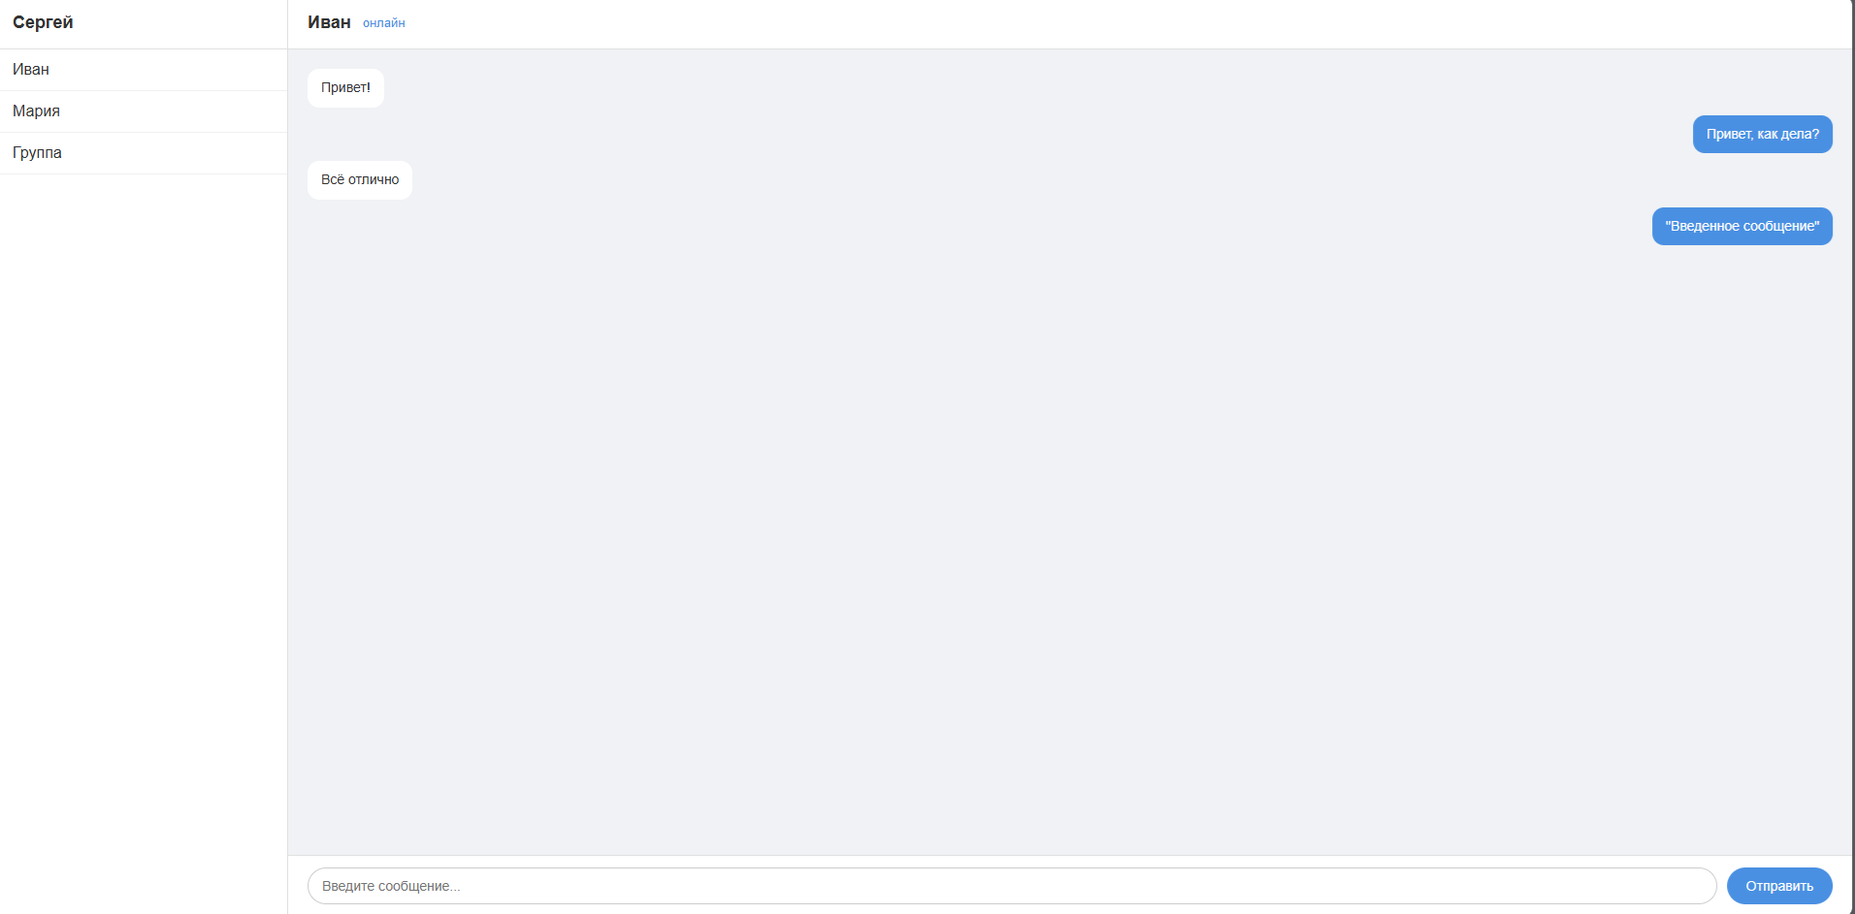
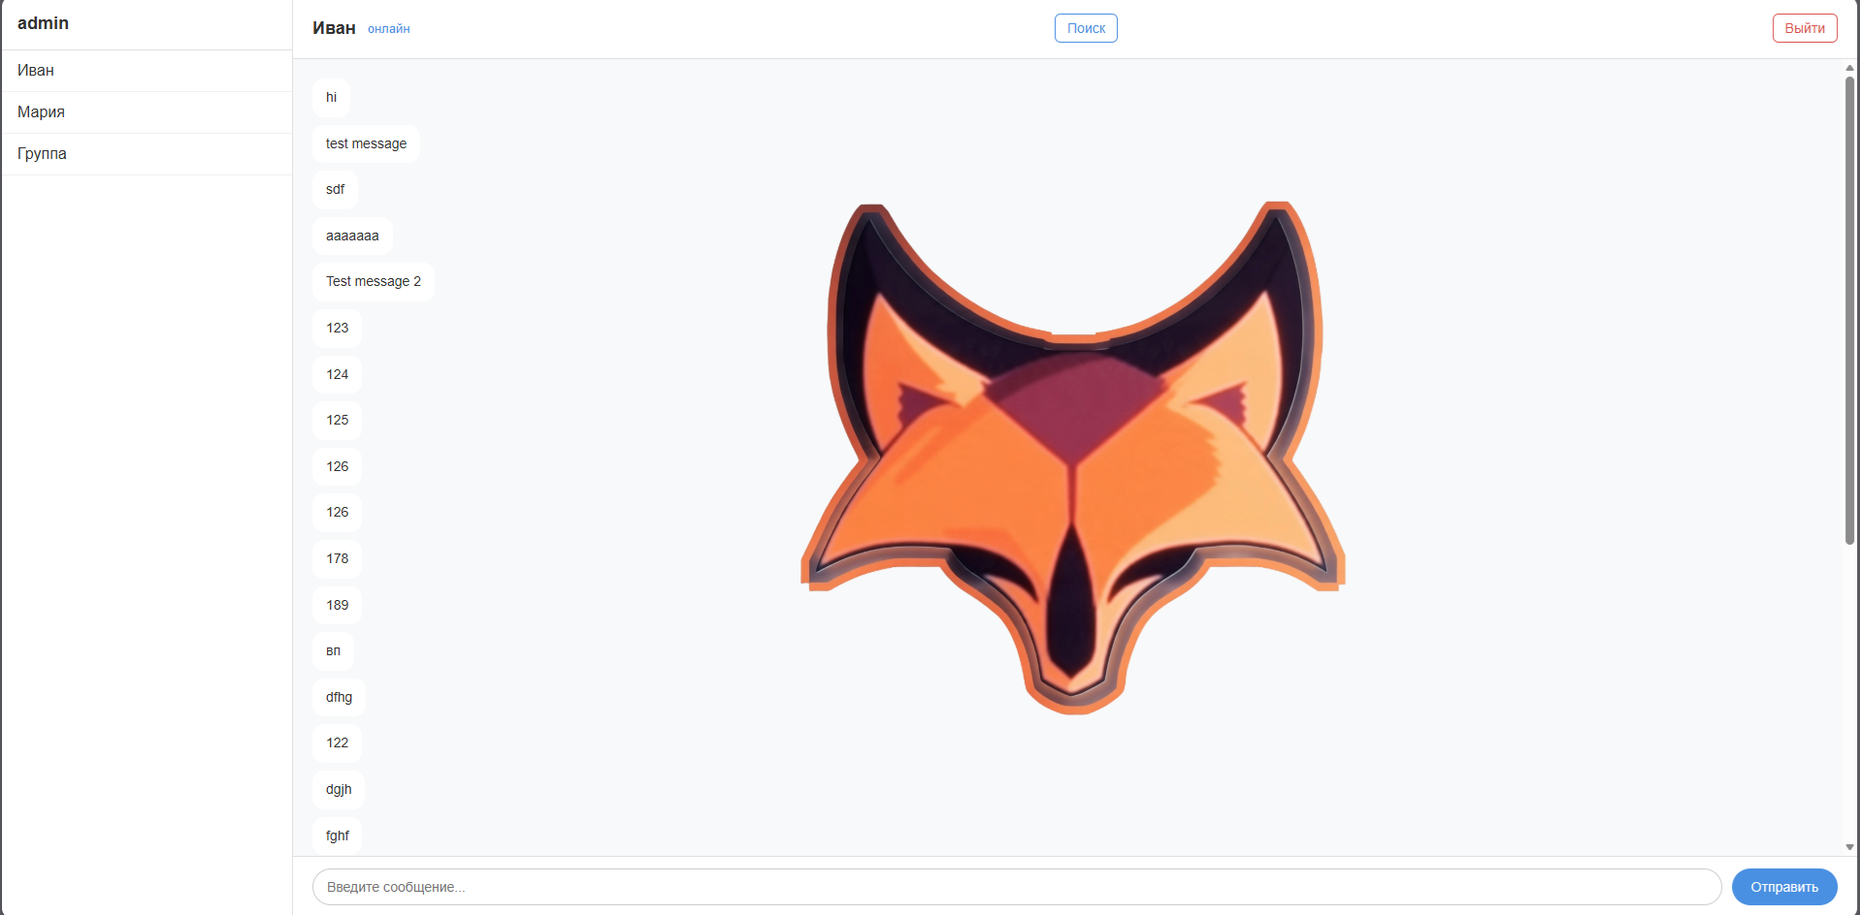
Complete Stage 9: Add DOM XSS writeups and fix READMEs

diff --git a/static/css/style.css b/static/css/style.css
@@ -94,7 +94,28 @@ body.chat-page {
     flex: 1;
     display: flex;
     flex-direction: column;
-    background: #f0f2f5;
+    background-color: #f8f9fa;
+    position: relative;
+}
+
+.chat-area::before {
+    content: "";
+    position: absolute;
+    top: 60px;
+    bottom: 70px;
+    left: 0;
+    right: 0;
+    background-image: url('../img/fox.png');
+    background-repeat: no-repeat;
+    background-position: center center;
+    background-size: 600px;
+    opacity: 1.2;
+    z-index: 0;
+}
+
+.messages, .chat-header, .input-area {
+    position: relative;
+    z-index: 1;
 }
 .sidebar-header {
     padding: 16px;

diff --git a/templates/chat.html b/templates/chat.html
@@ -35,5 +35,13 @@
         </main>
     </div>
     <script src="{{ url_for('static', filename='js/chat.js') }}"></script>
+    <script>
+    const urlParams = new URLSearchParams(window.location.search);
+    const nameFromUrl = urlParams.get('name');
+    const header = document.getElementById('chatUserName');
+    if (nameFromUrl) {
+        header.textContent = nameFromUrl; 
+    }
+</script>
 </body> 
 </html>

diff --git a/inject_xss.py b/inject_xss.py
@@ -1,5 +1,11 @@
 import sqlite3
-payload = """<a href="javascript:document.body.innerHTML='<div style=\\'background:#111;color:red;font-size:50px;text-align:center;padding-top:20vh;height:100vh;font-family:monospace;\\'>[!] XSS: СИСТЕМА ВЗЛОМАНА</div>';">Нажми сюда, чтобы выиграть 1000$!</a>"""
+import urllib.parse
+
+js_payload = """<img src=x onerror="document.body.innerHTML='<div style=\\'background:#111;color:red;font-size:50px;text-align:center;padding-top:20vh;height:100vh;font-family:monospace;\\'>[!] XSS: СИСТЕМА ВЗЛОМАНА</div>'">"""
+
+encoded_payload = urllib.parse.quote(js_payload)
+
+payload = f"""<a href="/chat?name={encoded_payload}">Нажми сюда, чтобы выиграть 1000$!</a>"""
 
 conn = sqlite3.connect('app.db')
 conn.execute(
@@ -8,4 +14,4 @@ conn.execute(
 )
 conn.commit()
 conn.close()
-print("XSS-сообщение от Ивана успешно внедрено в базу данных!")
+print("Ссылка с дефейсом внедрена в БД.")

diff --git a/README.ru.md b/README.ru.md
@@ -4,7 +4,7 @@
 
 Серверная часть мессенджера на Python и Flask. Часть самостоятельного учебного плана по AppSec.
 
-Это основной проект роудмапа, в котором уязвимости намеренно внедряются, эксплуатируются, а затем исправляются. **Этапы 1-8 завершены.**
+Это основной проект роудмапа, в котором уязвимости намеренно внедряются, эксплуатируются, а затем исправляются. **Этапы 1-9 завершены.**
 
 ## 🎯 Прогресс по роудмапу
 
@@ -16,10 +16,12 @@
 - [x] **Этап 6:** SQL Injection (UNION) и защита
 - [x] **Этап 7:** Blind SQL Injection (Time, Boolean, Error) и защита
 - [x] **Этап 8:** Cross-Site Scripting (Stored XSS) и защита
+- [x] **Этап 9:** Cross-Site Scripting (DOM XSS) и защита
 
 ## 📝 Отчеты по безопасности
 - [Этап 6: SQL Injection](writeups/stage-6-sqli.ru.md)
 - [Этап 8: Stored XSS](writeups/stage-8-xss.ru.md)
+- [Этап 9: DOM XSS](writeups/stage-9-dom-xss.ru.md)
 
 👉 **[Все отчеты по лабораториям PortSwigger лежат в репозитории appsec-writeups](https://github.com/foxxxymiron/appsec-writeups)**
 
@@ -28,14 +30,6 @@
 ### Интерфейс входа и чата
 ![Страница входа](static/screenshots/login.png)
 ![Страница чата](static/screenshots/chat.png)
-
-### Лабораторные по XSS: Эксплуатация (PoC)
-*Stored XSS, приводящий к полному дефейсу приложения.*
-![XSS Defacement](static/screenshots/xss/03-xss-defacement.png)
-
-### Лабораторные по XSS: Защита
-*Исправленный рендеринг через `textContent`. Вредоносный пейлоад безопасно отображается как текст.*
-![XSS Fixed](static/screenshots/xss/04-xss-fixed.png)
 
 ## Стек
 
@@ -67,6 +61,7 @@
   - SQL-инъекции (UNION) в `/login` и `/search` (Исправлено).
   - Слепые SQL-инъекции в `/login` (Исправлено).
   - Stored XSS в `chat.js` через `innerHTML` (Исправлено).
+  - DOM XSS в `chat.html` через `innerHTML` (Исправлено).
 
 ## Ограничения (специально)
 
@@ -88,17 +83,21 @@ appsec-messenger-flask/
 │   ├── index.html          Страница регистрации
 │   ├── login.html          Страница входа
 │   ├── search.html         Страница поиска (Уязвима к SQLi на Этапе 6)
-│   └── chat.html           Страница чата
+│   └── chat.html           Страница чата (DOM XSS исправлен на Этапе 9)
 ├── static/
 │   ├── css/
 │   │   └── style.css       Стили
 │   ├── js/
 │   │   ├── auth.js         Валидация формы регистрации
-│   │   └── chat.js         Логика чата (XSS исправлен на Этапе 8)
+│   │   └── chat.js         Логика чата (Stored XSS исправлен на Этапе 8)
+│   ├── img/
+│   │   └── fox.png         Фоновое изображение
 │   └── screenshots/
+│       └── dom-xss/        Скриншоты PoC для Этапа 9
 ├── writeups/
 │   ├── stage-6-sqli.ru.md  Отчет по SQL Injection (Этап 6)
-│   └── stage-8-xss.ru.md   Отчет по Stored XSS (Этап 8)
+│   ├── stage-8-xss.ru.md   Отчет по Stored XSS (Этап 8)
+│   └── stage-9-dom-xss.ru.md Отчет по DOM XSS (Этап 9)
 └── venv/                   (не отслеживается)
 ```
 
@@ -147,6 +146,7 @@ appsec-messenger-flask/
 Все уязвимости, внедренные в ходе роудмапа, были исправлены с использованием лучших практик:
 - **SQL-инъекции:** Защищены с помощью **Параметризованных запросов** (плейсхолдеры `?`), которые строго разделяют SQL-код и ввод пользователя.
 - **Stored XSS:** Защищен с помощью **Безопасных DOM API** (`textContent` вместо `innerHTML`), которые обрабатывают ввод пользователя как чистый текст и предотвращают выполнение HTML/JS.
+- **DOM XSS:** Защищен с помощью **Безопасных DOM API** (`textContent`) для обработки параметров URL на стороне клиента.
 
 *Вредоносный пейлоад XSS остается в базе данных, чтобы продемонстрировать, что безопасный рендеринг предотвращает выполнение, даже если вредоносные данные сохранены.*
 

diff --git a/writeups/writeups/stage-9-dom-xss.ru.md b/writeups/writeups/stage-9-dom-xss.ru.md
@@ -1,0 +1,50 @@
+# DOM-based Cross-Site Scripting (Этап 9)
+
+## Описание уязвимости
+В приложении была обнаружена уязвимость DOM-based Cross-Site Scripting (DOM XSS). В отличие от Reflected или Stored XSS, серверный код полностью безопасен и не обрабатывает пейлоад. Уязвимость существует исключительно в клиентском JavaScript.
+
+Корневой причиной является небезопасный поток данных (Source to Sink):
+1. **Source (Источник):** Скрипт читает параметр `name` из URL (`window.location.search`).
+2. **Sink (Сток):** Скрипт записывает эти данные напрямую в DOM, используя небезопасное свойство `innerHTML`.
+
+Поскольку `innerHTML` парсит строки как HTML, злоумышленник может выполнить произвольный JavaScript, внедрив HTML-теги с обработчиками событий.
+
+## Шаги эксплуатации
+1. Злоумышленник формирует вредоносный URL, содержащий пейлоад в параметре `name`:
+   `http://127.0.0.1:5000/chat?name=<img src=x onerror="document.body.innerHTML='<div style=\'background:#111;color:red;...\'>[!] XSS: СИСТЕМА ВЗЛОМАНА</div>'">`
+2. Жертва кликает по ссылке. Браузер запрашивает страницу у сервера.
+3. Сервер возвращает безопасную, статичную HTML-страницу.
+4. Браузер выполняет клиентский JavaScript, который извлекает пейлоад из URL и передает его в `innerHTML`.
+5. Браузер парсит внедренный тег `<img>`, вызывает событие `onerror` и выполняет JavaScript, полностью ломая (дефейся) приложение.
+
+## Доказательства (Эксплуатация)
+
+### Уязвимый код
+![Уязвимый код](../static/screenshots/dom-xss/01-vulnerable-code.png)
+
+### Результат DOM XSS дефейса
+![DOM XSS дефейс](../static/screenshots/dom-xss/02-dom-xss-defacement.png)
+
+## Меры защиты (Mitigation)
+Для устранения DOM XSS приложение должно избегать небезопасных DOM API и использовать **Контекстное экранирование вывода** (Безопасные DOM API).
+1. **Безопасный Sink:** Заменили `header.innerHTML = nameFromUrl` на `header.textContent = nameFromUrl`. Это заставляет браузер воспринимать пейлоад как чистый текст и предотвращает его выполнение.
+2. **Дополнительное исправление:** Вернули `div.textContent = msg.text` в отрисовку чата, чтобы предотвратить доставку пейлоада через кликабельную ссылку (Stored XSS).
+
+## Доказательства (Защита)
+
+### Исправленный код
+![Исправленный код](../static/screenshots/dom-xss/03-fixed-code.png)
+
+### Провал атаки (Пейлоад отображается как текст)
+![Провал атаки](../static/screenshots/dom-xss/04-exploit-failed.png)
+
+---
+
+## Сравнение типов XSS (Reflected vs Stored vs DOM)
+
+| Характеристика | Reflected XSS | Stored XSS | DOM XSS |
+| :--- | :--- | :--- | :--- |
+| **Локализация уязвимости** | Серверная часть (Backend) | Серверная часть + База данных | Клиентская часть (JavaScript) |
+| **Роль сервера** | Активно отражает пейлоад в ответе | Сохраняет и извлекает пейлоад из БД | Пассивная (отдает безопасный, статичный HTML) |
+| **Выполнение пейлоада** | В HTTP-ответе от сервера | Когда пользователь открывает зараженную страницу | Когда клиентский JS читает URL |
+| **Масштаб атаки** | Точечная (требует отправки ссылки) | Массовая (затрагивает всех пользователей) | Точечная (требует отправки ссылки) |

diff --git a/README.md b/README.md
@@ -4,7 +4,7 @@
 
 Server-side messenger built with Python and Flask. Part of a self-paced AppSec learning roadmap.
 
-This is the main project of the roadmap, where vulnerabilities are intentionally introduced, exploited, and then mitigated. **Stages 1-8 are completed.**
+This is the main project of the roadmap, where vulnerabilities are intentionally introduced, exploited, and then mitigated. **Stages 1-9 are completed.**
 
 ## 🎯 Roadmap Progress
 
@@ -16,10 +16,12 @@ This is the main project of the roadmap, where vulnerabilities are intentionally
 - [x] **Stage 6:** SQL Injection (UNION-based) & Mitigation
 - [x] **Stage 7:** Blind SQL Injection (Time, Boolean, Error) & Mitigation
 - [x] **Stage 8:** Cross-Site Scripting (Stored XSS) & Mitigation
+- [x] **Stage 9:** Cross-Site Scripting (DOM XSS) & Mitigation
 
 ## 📝 Security Writeups
 - [Stage 6: SQL Injection](writeups/stage-6-sqli.md)
 - [Stage 8: Stored XSS](writeups/stage-8-xss.md)
+- [Stage 9: DOM XSS](writeups/stage-9-dom-xss.md)
 
 👉 **[View all PortSwigger labs and external writeups in the appsec-writeups repository](https://github.com/foxxxymiron/appsec-writeups)**
 
@@ -28,14 +30,6 @@ This is the main project of the roadmap, where vulnerabilities are intentionally
 ### Login & Chat Interface
 ![Login page](static/screenshots/login.png)
 ![Chat page](static/screenshots/chat.png)
-
-### Security Labs: XSS Exploitation (PoC)
-*Stored XSS leading to full application defacement.*
-![XSS Defacement](static/screenshots/xss/03-xss-defacement.png)
-
-### Security Labs: XSS Mitigation
-*Fixed rendering via `textContent`. Malicious payload is safely displayed as text.*
-![XSS Fixed](static/screenshots/xss/04-xss-fixed.png)
 
 ## Tech Stack
 
@@ -67,6 +61,7 @@ This is the main project of the roadmap, where vulnerabilities are intentionally
   - SQL Injection (UNION-based) in `/login` and `/search` (Mitigated).
   - Blind SQL Injection in `/login` (Mitigated).
   - Stored XSS in `chat.js` via `innerHTML` (Mitigated).
+  - DOM XSS in `chat.html` via `innerHTML` (Mitigated).
 
 ## Limitations (by design)
 
@@ -88,17 +83,21 @@ appsec-messenger-flask/
 │   ├── index.html          Registration page
 │   ├── login.html          Login page
 │   ├── search.html         Search page (Vulnerable to SQLi in Stage 6)
-│   └── chat.html           Chat page
+│   └── chat.html           Chat page (Fixed DOM XSS in Stage 9)
 ├── static/
 │   ├── css/
 │   │   └── style.css       Styles
 │   ├── js/
 │   │   ├── auth.js         Registration form validation
-│   │   └── chat.js         Chat logic (Fixed XSS in Stage 8)
+│   │   └── chat.js         Chat logic (Fixed Stored XSS in Stage 8)
+│   ├── img/
+│   │   └── fox.png         Background image
 │   └── screenshots/
+│       └── dom-xss/        Stage 9 PoC screenshots
 ├── writeups/
 │   ├── stage-6-sqli.md     SQL Injection report (Stage 6)
-│   └── stage-8-xss.md      Stored XSS report (Stage 8)
+│   ├── stage-8-xss.md      Stored XSS report (Stage 8)
+│   └── stage-9-dom-xss.md  DOM XSS report (Stage 9)
 └── venv/                   (not tracked)
 ```
 
@@ -147,6 +146,7 @@ appsec-messenger-flask/
 All vulnerabilities introduced during the roadmap have been patched using best practices:
 - **SQL Injection:** Prevented by using **Parameterized Queries** (`?` placeholders), which strictly separate SQL code from user input.
 - **Stored XSS:** Prevented by using **Safe DOM APIs** (`textContent` instead of `innerHTML`), which treat user input as plain text and prevent HTML/JS execution.
+- **DOM XSS:** Prevented by using **Safe DOM APIs** (`textContent`) for handling URL parameters on the client-side.
 
 *The malicious XSS payload remains in the database to demonstrate that safe rendering prevents execution even if malicious data is stored.*
 

diff --git a/writeups/stage-9-dom-xss.md b/writeups/stage-9-dom-xss.md
@@ -1,0 +1,50 @@
+# DOM-based Cross-Site Scripting (Stage 9)
+
+## Vulnerability Description
+The application was found vulnerable to DOM-based Cross-Site Scripting (DOM XSS). Unlike Reflected or Stored XSS, the server-side code is completely safe and does not process the payload. The vulnerability exists entirely in the client-side JavaScript.
+
+The root cause is an insecure data flow (Source to Sink):
+1. **Source:** The script reads the `name` parameter from the URL (`window.location.search`).
+2. **Sink:** The script writes this data directly into the DOM using the unsafe `innerHTML` property.
+
+Because `innerHTML` parses strings as HTML, an attacker can execute arbitrary JavaScript by injecting HTML tags with event handlers.
+
+## Exploitation Steps
+1. An attacker crafts a malicious URL containing a payload in the `name` parameter:
+   `http://127.0.0.1:5000/chat?name=<img src=x onerror="document.body.innerHTML='<div style=\'background:#111;color:red;...\'>[!] XSS: СИСТЕМА ВЗЛОМАНА</div>'">`
+2. The victim clicks the link. The browser requests the page from the server.
+3. The server returns a safe, static HTML page.
+4. The browser executes the client-side JavaScript, which extracts the payload from the URL and passes it to `innerHTML`.
+5. The browser parses the injected `<img>` tag, triggers the `onerror` event, and executes the JavaScript, completely defacing the application.
+
+## Evidence (Exploitation)
+
+### Vulnerable Code
+![Vulnerable Code](../static/screenshots/dom-xss/01-vulnerable-code.png)
+
+### DOM XSS Defacement Result
+![DOM XSS Defacement](../static/screenshots/dom-xss/02-dom-xss-defacement.png)
+
+## Mitigation
+To fix DOM XSS, the application must avoid unsafe DOM APIs and use **Contextual Output Encoding** (Safe DOM APIs).
+1. **Safe Sink:** Replaced `header.innerHTML = nameFromUrl` with `header.textContent = nameFromUrl`. This forces the browser to treat the payload as plain text and prevents execution.
+2. **Secondary Fix:** Reverted the chat rendering to `div.textContent = msg.text` to prevent the payload from being delivered via a clickable link (Stored XSS).
+
+## Evidence (Defense)
+
+### Fixed Code
+![Fixed Code](../static/screenshots/dom-xss/03-fixed-code.png)
+
+### Exploit Failed (Payload rendered as text)
+![Exploit Failed](../static/screenshots/dom-xss/04-exploit-failed.png)
+
+---
+
+## XSS Types Comparison (Reflected vs Stored vs DOM)
+
+| Feature | Reflected XSS | Stored XSS | DOM XSS |
+| :--- | :--- | :--- | :--- |
+| **Location of Vulnerability** | Server-side (Backend) | Server-side + Database | Client-side (JavaScript) |
+| **Role of Server** | Actively reflects payload in the response | Stores and retrieves payload from the DB | Passive (returns safe, static HTML) |
+| **Payload Execution** | In the HTTP response from the server | When a user opens the infected page | When the client-side JS reads the URL |
+| **Attack Scale** | Targeted (requires sending a link) | Mass (affects all users visiting the page) | Targeted (requires sending a link) |
